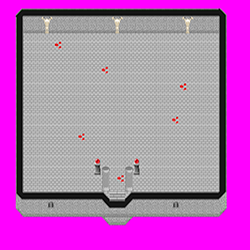
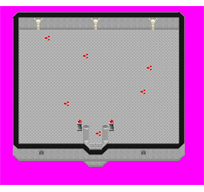
Fully optimised the Mini-Map feature.  - Map renders/auto-generates when saving the map in the map editor (see Grh\MiniMap folder)  - Map is now scaled by a percentage (10% or 15% depending on map size)  - Map size has a cap of 2048x2048  - Map form resizes to accommodate the various map sizes (migh
Fixes issue #338.

diff --git a/netgore/trunk/DemoGame.Client/Controls/MiniMapForm.cs b/netgore/trunk/DemoGame.Client/Controls/MiniMapForm.cs
@@ -1,10 +1,12 @@
-using System.Collections.Generic;
+using System;
+using System.Collections.Generic;
 using System.Linq;
 using NetGore;
 using NetGore.Graphics;
 using NetGore.Graphics.GUI;
 using NetGore.World;
 using SFML.Graphics;
+using SFML.Window;
 
 namespace DemoGame.Client
 {
@@ -13,12 +15,12 @@ namespace DemoGame.Client
     /// </summary>
     public class MiniMapForm : Form
     {
-        List<PictureBox> _picEntities = new List<PictureBox>();
-        PictureBox _scaledMap;
-        Grh _scaledMapGrh = new Grh(null);
-        readonly Grh _entityCharGrh;
-        readonly Grh _entityNPCGrh;
-        GameplayScreen _gamePlayScreen;
+        private Grh _scaledMapGrh;
+        private List<Tuple<Grh, Vector2>> _grhEntities = new List<Tuple<Grh, Vector2>>();
+        private readonly Grh _entityCharGrh;
+        private readonly Grh _entityNPCGrh;
+        private readonly GameplayScreen _gamePlayScreen;
+        private Vector2 _topLeftPos;
 
         /// <summary>
         /// Initializes a new instance of the <see cref="MiniMapForm"/> class.
@@ -27,6 +29,8 @@ namespace DemoGame.Client
         /// <param name="screen">The game play screen.</param>
         public MiniMapForm(Control parent, GameplayScreen screen) : base(parent, new Vector2(50, 50), new Vector2(250, 250))
         {
+            _topLeftPos = new Vector2(this.Position.X + this.Border.LeftWidth, this.Position.Y + this.Border.TopHeight);
+            _scaledMapGrh = new Grh(null);
             _entityCharGrh = new Grh(GrhInfo.GetData("GUI", "MiniMapCharacter"));
             _entityNPCGrh = new Grh(GrhInfo.GetData("GUI", "MiniMapNPC"));
             _gamePlayScreen = screen;
@@ -50,61 +54,89 @@ namespace DemoGame.Client
         }
 
         /// <summary>
-        /// Sets the default values for the <see cref="Control"/>. This should always begin with a call to the
-        /// base class's method to ensure that changes to settings are hierchical.
+        /// Gets the <see cref="TopLeftPos"/> of the <see cref="MiniMapForm"/> after the borders.
         /// </summary>
-        protected override void SetDefaultValues()
+        public Vector2 TopLeftPos
         {
-            base.SetDefaultValues();
-
-            Text = "Mini Map";
+            get { return _topLeftPos; }
+            set { _topLeftPos = value; }
         }
 
         /// <summary>
-        /// Updates the <see cref="Control"/>. This is called for every <see cref="Control"/>, even if it is disabled or
-        /// not visible.
+        /// The <see cref="Control"/> has been moved, so update positions.
         /// </summary>
-        /// <param name="currentTime">The current time in milliseconds.</param>
-        protected override void UpdateControl(TickCount currentTime)
+        protected override void OnMoved()
         {
-            base.UpdateControl(currentTime);
+            base.OnMoved();
 
+            TopLeftPos = new Vector2(this.Position.X + this.Border.LeftWidth, this.Position.Y + this.Border.TopHeight);
+        }
+
+        /// <summary>
+        /// Draws the <see cref="Control"/>.
+        /// </summary>
+        /// <param name="spriteBatch">The <see cref="ISpriteBatch"/> to draw to.</param>
+        protected override void DrawControl(ISpriteBatch sb)
+        {
+            base.DrawControl(sb);
+
+            // If not visible, no point in drawing/updating anything
             if (!IsVisible)
                 return;
 
+            // Draw the scaled down version of the map
+            ScaledMapGrh.Draw(sb, _topLeftPos);
+
+            // Update the entities on the map
             UpdateMiniMap();
+
+            // Draw all the entities we just found
+            foreach (var grh in _grhEntities)
+                grh.Item1.Draw(sb, _topLeftPos + grh.Item2);
         }
 
         private void UpdateMiniMap()
         {
-            _picEntities.Clear();
+            // Search the map for entities
+            var entites = GamePlayScreen.Map.Spatial.GetMany<CharacterEntity>();
 
-            if (ScaledMapGrh != null)
-                _scaledMap = new PictureBox(this, Vector2.Zero, this.ClientSize) { CanFocus = false, CanDrag = false, Sprite = ScaledMapGrh };
+            // Clear the grh list so we don't hold duplicates, etc
+            _grhEntities.Clear();
 
-            var entites = GamePlayScreen.Map.Spatial.GetMany(x => x is CharacterEntity);
+            // Add the various entities to our grh list, ready to be drawn
             foreach (var entity in entites)
             {
                 if (entity is User)
-                    DrawEntityGrh(entity, _entityCharGrh);
+                    AddEntityGrh(entity, _entityCharGrh);
                 else if (entity is NPC)
-                    DrawEntityGrh(entity, _entityNPCGrh);
+                    AddEntityGrh(entity, _entityNPCGrh);
             }
         }
 
-        private void DrawEntityGrh(ISpatial entity, Grh grh)
+        private void AddEntityGrh(ISpatial entity, Grh grh)
         {
+            // Find the scaling value so we can position the entities correctly
             var scaleX = GamePlayScreen.Map.Size.X / ScaledMapGrh.Size.X;
             var scaleY = GamePlayScreen.Map.Size.Y / ScaledMapGrh.Size.Y;
-
             var scaledPos = new Vector2((entity.Position.X / scaleX) - grh.Size.X / 2, (entity.Position.Y / scaleY) - grh.Size.Y / 2);
-            _picEntities.Add(new PictureBox(this, scaledPos, grh.Size) { CanFocus = false, CanDrag = false, Sprite = grh });
+            // Add the grh as well as the position
+            _grhEntities.Add(new Tuple<Grh, Vector2>(new Grh(grh.GrhData), scaledPos));
         }
 
+        /// <summary>
+        /// Handles when a map is changed and sets the new map to daw on the <see cref="MiniMapForm"/>.
+        /// </summary>
+        /// <param name="map">The map the user is on.</param>
         public void MapChanged(Map map)
         {
+            // Show the map name in the form
             Text = "Mini Map: " + map.Name;
+
+            // Assign the new map as a new grh
             ScaledMapGrh.SetGrh(GrhInfo.GetData("MiniMap", map.ID.ToString()));
+
+            // Resize the form to match the new scaled map grh
+            this.ClientSize = ScaledMapGrh.Size;
         }
     }
 }

diff --git a/netgore/trunk/DemoGame.Editor/Map Helpers/MapHelper.cs b/netgore/trunk/DemoGame.Editor/Map Helpers/MapHelper.cs
@@ -66,6 +66,7 @@ namespace DemoGame.Editor
                 {
                     // Save
                     SaveMap(map, false);
+                    SaveMiniMap(map.ID, ContentPaths.Dev.Grhs + "MiniMap");
                     ret.Add(new KeyValuePair<MapID, int>(mapId, removed));
                 }
             }
@@ -132,6 +133,7 @@ namespace DemoGame.Editor
                 {
                     map.SetDimensions(new Vector2(960, 960));
                     SaveMap(map, false);
+                    SaveMiniMap(map.ID, ContentPaths.Dev.Grhs + "MiniMap");
                 }
 
                 return id;
@@ -229,6 +231,36 @@ namespace DemoGame.Editor
             }
 
             return true;
+        }
+
+        static void DeleteMiniMap(MapID mapId)
+        {
+            try
+            {
+                // Delete file
+                string filePathDev = MapBase.GetMiniMapFilePath(ContentPaths.Dev, mapId);
+                if (File.Exists(filePathDev))
+                    File.Delete(filePathDev);
+
+                try
+                {
+                    string filePathBuild = MapBase.GetMiniMapFilePath(ContentPaths.Build, mapId);
+                    if (File.Exists(filePathBuild))
+                        File.Delete(filePathBuild);
+                }
+                catch
+                {
+                }
+            }
+            catch (Exception ex)
+            {
+                const string errmsg = "Failed to delete the mini-map for mapId `{0}`. Exception: {1}";
+                if (log.IsErrorEnabled)
+                    log.ErrorFormat(errmsg, mapId, ex);
+                Debug.Fail(string.Format(errmsg, mapId, ex));
+
+                throw;
+            }
         }
 
         /// <summary>
@@ -380,6 +412,7 @@ namespace DemoGame.Editor
                 {
                     // Save the map
                     map.Save(ContentPaths.Dev, EditorDynamicEntityFactory.Instance);
+                    SaveMiniMap(map.ID, ContentPaths.Dev.Grhs + "MiniMap");
 
                     // Update the database
                     GlobalState.Instance.DbController.GetQuery<InsertMapQuery>().Execute(map);
@@ -405,6 +438,18 @@ namespace DemoGame.Editor
                     log.ErrorFormat(errmsg, map, ex);
                 Debug.Fail(string.Format(errmsg, map, ex));
             }
+        }
+
+        /// <summary>
+        /// Saves a map as a new mini-map.
+        /// </summary>
+        /// <param name="mapID">The map ID to save.</param>
+        /// <param name="folder">The name of the folder to save to.</param>
+        public static void SaveMiniMap(MapID mapID, string folder)
+        {
+            var tb = ToolBar.GetToolBar(ToolBarVisibility.Map);
+            var tbItems = tb.Items;
+            tbItems["Map Preview"].PerformClick();
         }
 
         /// <summary>
@@ -452,6 +497,7 @@ namespace DemoGame.Editor
 
                 // Save
                 SaveMap(map, false);
+                SaveMiniMap(map.ID, ContentPaths.Dev.Grhs + "MiniMap");
             }
             catch (Exception ex)
             {
@@ -503,6 +549,7 @@ namespace DemoGame.Editor
                 {
                     DeleteMap(id, deleteMapQuery);
                     deletedIds.Add(id);
+                    DeleteMiniMap(id);
                 }
                 catch
                 {

diff --git a/netgore/trunk/DemoGame.Editor/Tools/Map/MapPreviewTool.cs b/netgore/trunk/DemoGame.Editor/Tools/Map/MapPreviewTool.cs
@@ -4,6 +4,8 @@ using System.Linq;
 using System.Windows.Forms;
 using DemoGame.Client;
 using DemoGame.Editor.Properties;
+using NetGore;
+using NetGore.IO;
 using NetGore.Editor.EditorTool;
 using ToolBar = NetGore.Editor.EditorTool.ToolBar;
 
@@ -27,6 +29,14 @@ namespace DemoGame.Editor.Tools
 
         void ControlSettings_Click(object sender, EventArgs e)
         {
+            SaveMapPreview();
+        }
+
+        /// <summary>
+        /// Automatically saves an image of the map in it's mini-map format.
+        /// </summary>
+        void SaveMapPreview()
+        {
             var tb = ToolBar.GetToolBar(ToolBarVisibility.Map);
             if (tb == null)
                 return;
@@ -35,12 +45,10 @@ namespace DemoGame.Editor.Tools
             if (map == null)
                 return;
 
-            var filePath = Path.GetFullPath(map.ID + ".png");
+            var filePath = ContentPaths.Dev.Grhs.Join("MiniMap\\" + map.ID + EngineSettings.ImageFileSuffix);
 
             var mp = new MapPreviewer();
             mp.CreatePreview(map, ToolManager.MapDrawingExtensions, filePath);
-
-            MessageBox.Show("Saved map preview to file:" + Environment.NewLine + filePath, "Preview saved", MessageBoxButtons.OK);
         }
 
         /// <summary>

diff --git a/netgore/trunk/NetGore/Graphics/Map/MapPreviewerBase.cs b/netgore/trunk/NetGore/Graphics/Map/MapPreviewerBase.cs
@@ -181,7 +181,15 @@ namespace NetGore.Graphics
         /// <param name="filePath">The file path to save the file to.</param>
         protected virtual void SaveTexture(Image img, string filePath)
         {
-            img.Save(filePath, ImageFormat.Png);
+            // Scale to 10% or 20 if it's a small map
+            float scaledPercent = ((float)10 / 100);
+            if (img.Height < 1300)
+                scaledPercent = ((float)20 / 100);
+            var newWidth = (int)(img.Width * scaledPercent).Clamp(1, 2048);
+            var newHeight = (int)(img.Height * scaledPercent).Clamp(1, 2048);
+            var newImg = img.CreateScaled(newWidth, newHeight, true, null, null);
+            newImg.SetResolution(img.HorizontalResolution, img.VerticalResolution);
+            newImg.Save(filePath, ImageFormat.Png);
         }
 
         /// <summary>

diff --git a/netgore/trunk/DemoGame/World/Map/MapBase.cs b/netgore/trunk/DemoGame/World/Map/MapBase.cs
@@ -496,6 +496,17 @@ namespace DemoGame
         }
 
         /// <summary>
+        /// Gets the path to a mini-map file.
+        /// </summary>
+        /// <param name="contentPath">The <see cref="ContentPaths"/>.</param>
+        /// <param name="id">The ID of the map.</param>
+        /// <returns>The path to the mini-map file.</returns>
+        public static string GetMiniMapFilePath(ContentPaths contentPath, MapID id)
+        {
+            return contentPath.Grhs.Join("MiniMap\\" + id + EngineSettings.ImageFileSuffix);
+        }
+
+        /// <summary>
         /// Gets an IEnumerable of the path of all the map files in the given ContentPaths.
         /// </summary>
         /// <param name="path">ContentPaths to load the map files from.</param>

diff --git a/netgore/trunk/NetGore/Core/EngineSettings.cs b/netgore/trunk/NetGore/Core/EngineSettings.cs
@@ -13,6 +13,7 @@ namespace NetGore
     {
         static EngineSettings _instance;
         const string _dataFileSuffix = ".dat";
+        const string _imageFileSuffix = ".png";
 
 #if !TOPDOWN
         readonly Vector2 _gravity;
@@ -87,6 +88,15 @@ namespace NetGore
         public static string DataFileSuffix
         {
             get { return _dataFileSuffix; }
+        }
+
+        /// <summary>
+        /// Gets the suffix given to png image files. Includes the prefixed period, if one is used. Can be empty, but cannot
+        /// be null.
+        /// </summary>
+        public static string ImageFileSuffix
+        {
+            get { return _imageFileSuffix; }
         }
 
         /// <summary>
